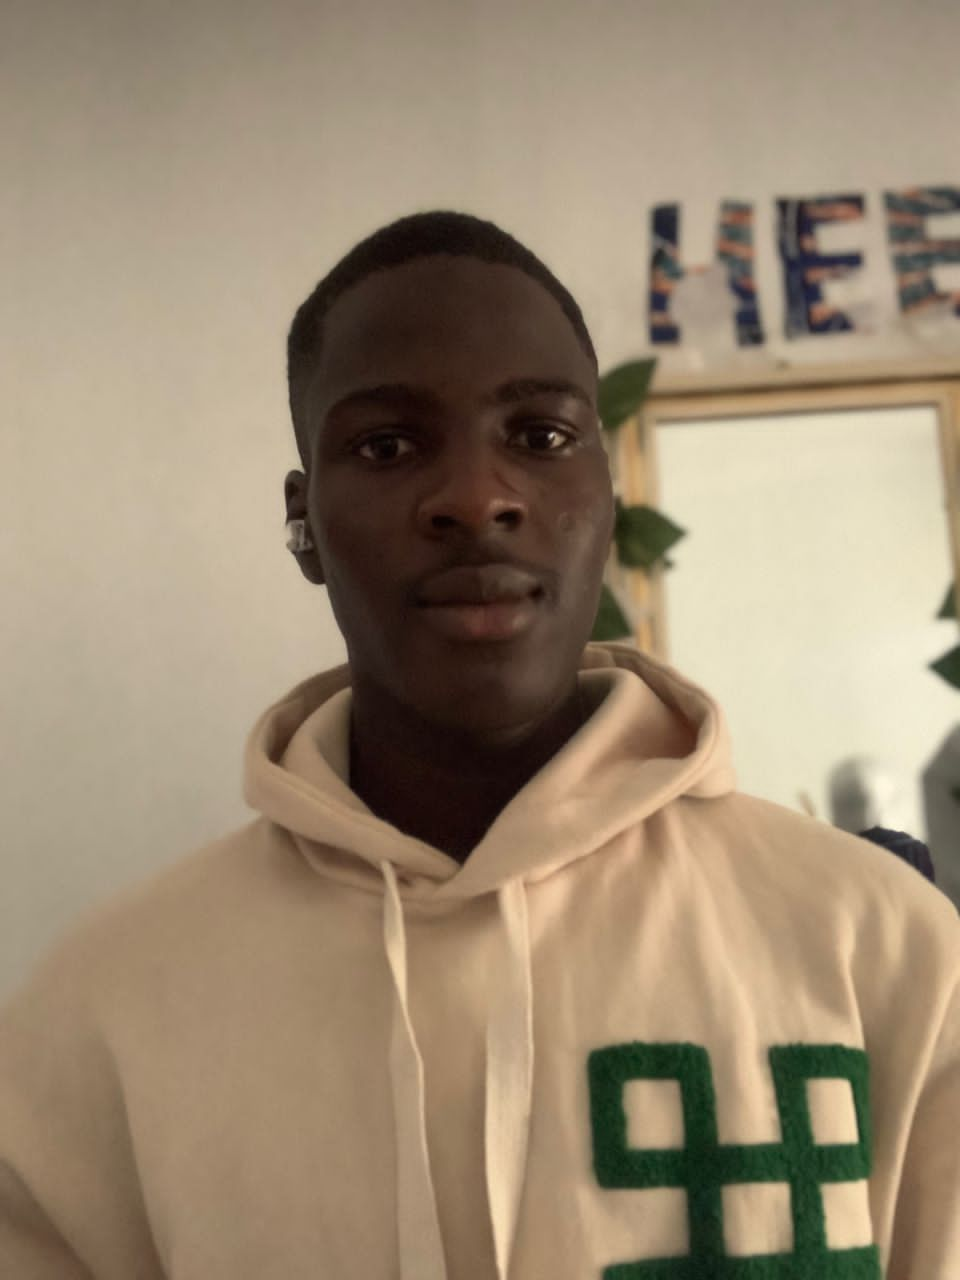
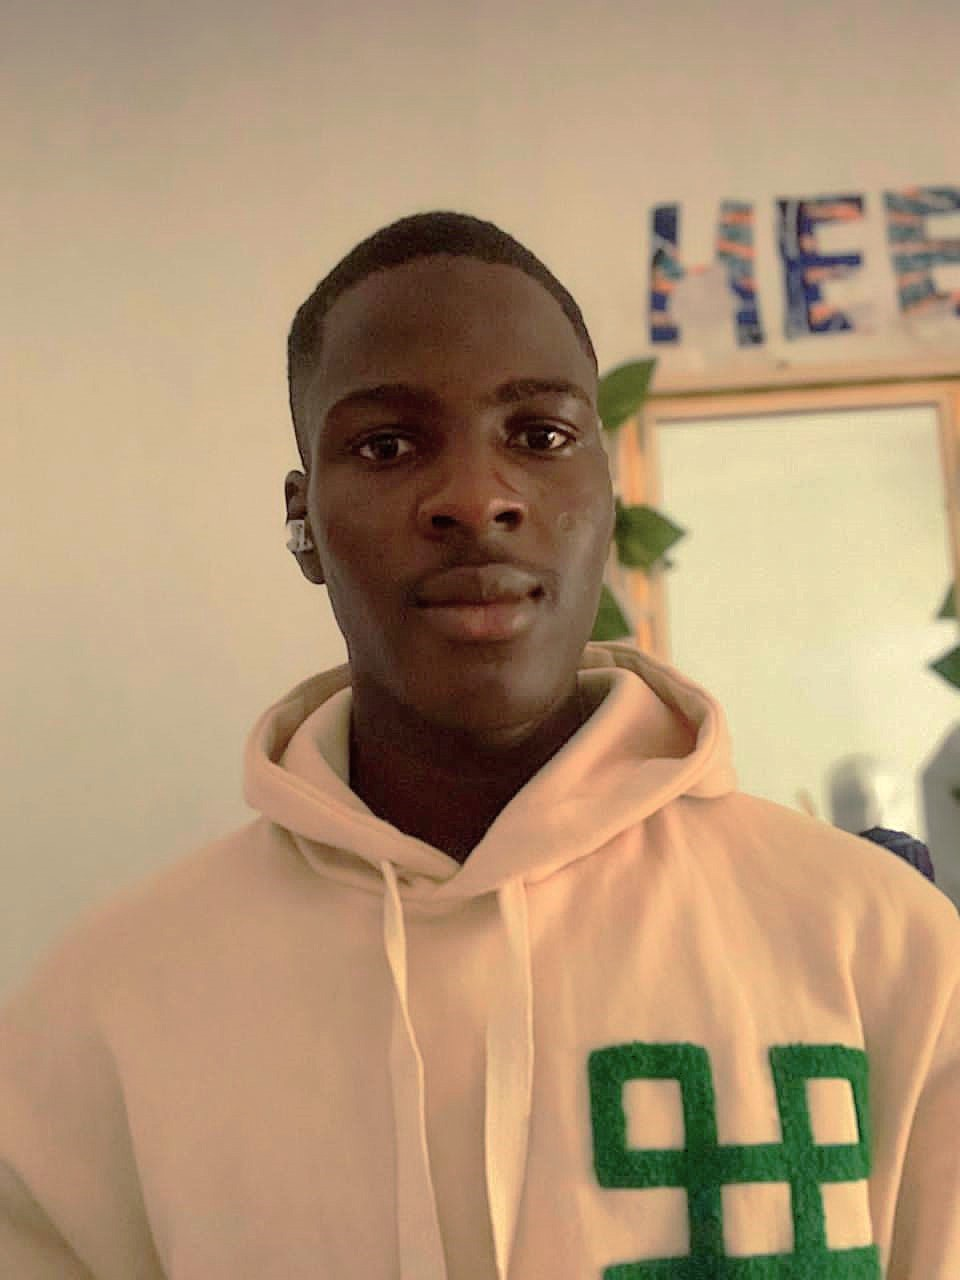
add hire me button and edit image

diff --git a/index.html b/index.html
@@ -102,14 +102,15 @@
                                     <h1 class="hero-title ms-3 mb-0" id="hero-title">Hello friend!</h1>
                                 </div>
 
-                                <h2 class="mb-4" id="mb-4">I’m Dcrony, A Web developer.</h2>
-                                <p class="mb-4" ><a class="custom-btn btn custom-link" id="mb-5" href="images/DCRONY CV.pdf" download="images/DCRONY CV.pdf">Download Cv</a></p>
+                                <h2 class="mb-4" id="mb-">I’m Dcrony, A Web developer.</h2>
+                                <p class="mb-4" ><a class="custom-btn btn" id="mb-6" href="images/DCRONY CV.pdf" download="images/DCRONY CV.pdf">Download Cv</a></p>
+                                <p class="mb-4 custom-btn btn" id="mb-6">Hire Me</p>
                             </div>
                         </div>
 
                         <div class="col-lg-5 col-12 position-relative">
                             <div class="hero-image-wrap"></div>
-                            <img src="images/dcrony-p.png" class="hero-image img-fluid" alt="">
+                            <img src="images/dcronypp.jpg" class="hero-image-wrap" alt="">
                         </div>
 
                     </div>

diff --git a/css/magnific-popup.css b/css/magnific-popup.css
@@ -321,9 +321,6 @@ img.mfp-img {
     width: 30px;
 }
 
-#navbarNav{
-  
-}
 
 @media screen and (max-width: 800px) and (orientation: landscape), screen and (max-height: 300px) {
   /**
@@ -362,7 +359,11 @@ img.mfp-img {
     background: rgba(0, 0, 0, 0.6);
     position: fixed;
     text-align: center;
-    padding: 0; } }
+    padding: 0; }
+  
+    
+
+  }
 
 
 @media all and (max-width: 900px) {
@@ -385,10 +386,18 @@ img.mfp-img {
     font-size: 30px;
     width: 100%;
   }
+
   #mb-5{
     background-color: rgb(19, 199, 154);
     font-size: 30px;
-    width: 100%;
+    
+    
+  }
+  #mb-6{
+    text-align: center;
+    display: inline-block;
+    border: 1px solid black;
+    border-radius: 6px;
   }
  
 
@@ -396,5 +405,19 @@ img.mfp-img {
     height: 250px;
     
   }
+}
+
+#mb-5{
+  background-color: rgb(91, 47, 192);
+  font-size: 30px;
   
-  }
+  
+}
+#mb-6{
+  text-align: center;
+  display: inline-block;
+  border: 1px solid black;
+  border-radius: 6px;
+ 
+}
+ 
